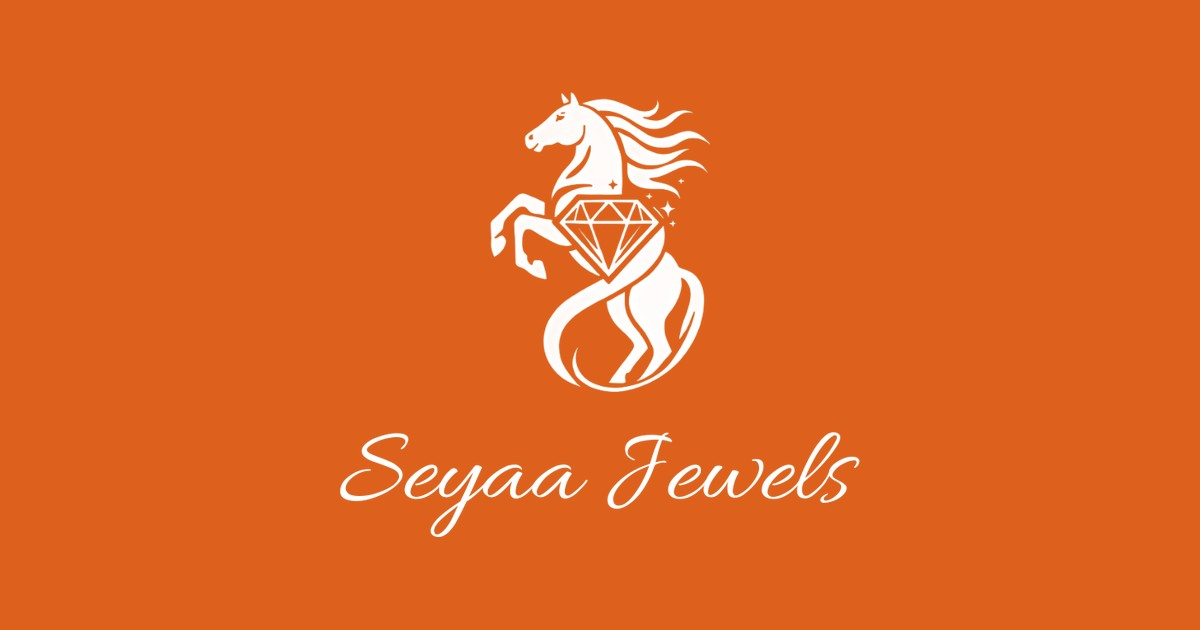
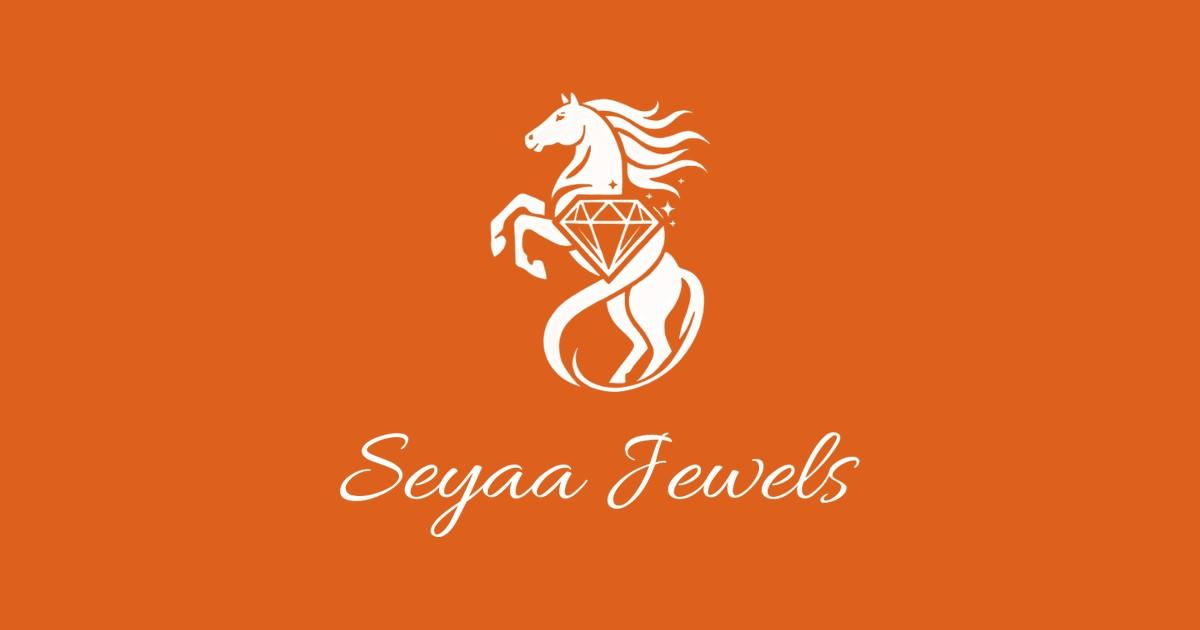
refactor: ship one lockup file per shape, encoded as WebP
The white lockup was a second copy of the same artwork, which is one more
thing to keep in step. The artwork is a single flat colour, so the footer now
renders the orange files white with brightness(0) invert(1) instead.

Also moves the lockups from PNG to lossless WebP: these are flat colour over a
soft antialiased alpha channel, which PNG encodes badly — re-encoding cut them
from 155 KB to 41 KB with no loss. The app icons quantise to a small palette
(white on orange is two colours plus edges), 45 KB to 14 KB.

Claude-Session: https://claude.ai/code/session_01ARLj3Yr9uGSknECemrtpa7

diff --git a/src/app/layout.tsx b/src/app/layout.tsx
@@ -40,19 +40,19 @@ export default function RootLayout({ children }: { children: React.ReactNode }) 
               className="group flex items-center gap-3 transition-opacity hover:opacity-80"
             >
               <Image
-                src="/brand/mark.png"
+                src="/brand/mark.webp"
                 alt=""
-                width={266}
-                height={362}
+                width={176}
+                height={240}
                 priority
                 className="h-9 w-auto sm:h-11"
               />
               <span className="flex flex-col leading-none">
                 <Image
-                  src="/brand/wordmark.png"
+                  src="/brand/wordmark.webp"
                   alt="Seyaa Jewels"
-                  width={608}
-                  height={123}
+                  width={480}
+                  height={97}
                   priority
                   className="h-5 w-auto sm:h-6"
                 />
@@ -91,19 +91,22 @@ export default function RootLayout({ children }: { children: React.ReactNode }) 
         <footer className="mt-24 bg-brand text-white">
           <div className="shell grid gap-10 py-16 sm:grid-cols-2 lg:grid-cols-4">
             <div>
+              {/* The artwork is a single flat colour, so brightness(0) invert(1)
+                  renders the same file in white — no second asset to keep in
+                  step with the first. */}
               <Image
-                src="/brand/mark-white.png"
+                src="/brand/mark.webp"
                 alt=""
-                width={266}
-                height={362}
-                className="h-16 w-auto"
+                width={176}
+                height={240}
+                className="h-16 w-auto [filter:brightness(0)_invert(1)]"
               />
               <Image
-                src="/brand/wordmark-white.png"
+                src="/brand/wordmark.webp"
                 alt="Seyaa Jewels"
-                width={608}
-                height={123}
-                className="mt-4 h-7 w-auto"
+                width={480}
+                height={97}
+                className="mt-4 h-7 w-auto [filter:brightness(0)_invert(1)]"
               />
               <p className="mt-5 max-w-xs text-sm leading-relaxed text-white/80">
                 14K gold jewellery set with lab-grown diamonds, made for corporate

diff --git a/CLAUDE.md b/CLAUDE.md
@@ -1,4 +1,4 @@
-# Seyaa — corporate jewellery showcase
+# Seyaa Jewels — corporate jewellery showcase
 
 A catalogue site for lab-grown diamond jewellery. It **showcases** pieces —
 there is no cart and nothing is sold online. Buyers note a SKU and enquire.
@@ -100,8 +100,8 @@ composited over the orange, so per-pixel alpha is exact) and recolouring:
 
 | Asset | Use |
 | --- | --- |
-| `mark.png` / `wordmark.png` | orange on transparent — header on ivory |
-| `mark-white.png` / `wordmark-white.png` | white on transparent — orange footer |
+| `mark.webp` / `wordmark.webp` | orange on transparent — the only lockup files |
+| `brightness(0) invert(1)` on the above | white lockup for the orange footer |
 | `og.jpg` | 1200×630 social card, the brand lockup |
 | `src/app/icon.png`, `apple-icon.png` | white mark on orange, per the brand kit |
 
